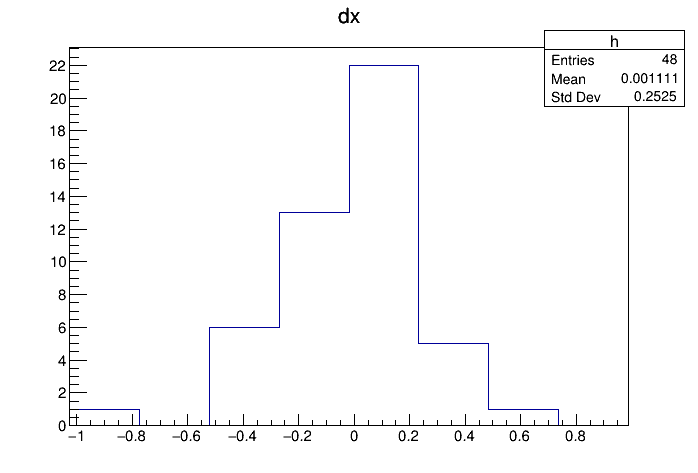
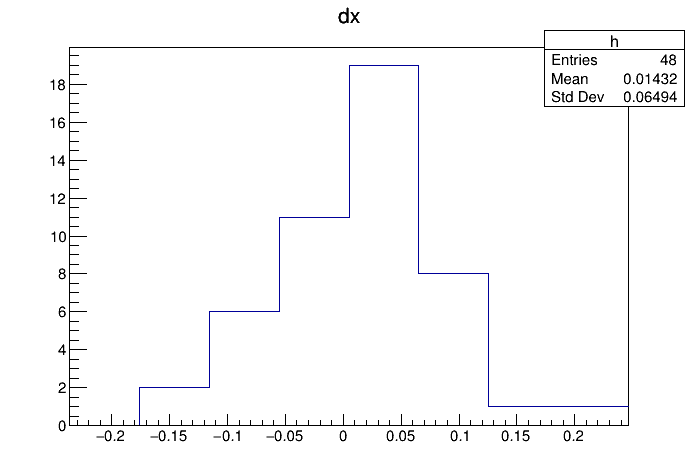
Sample Text

diff --git a/intt_transforms.cc b/intt_transforms.cc
@@ -1,4 +1,4 @@
-void get_intt_transforms()
+void intt_transforms()
 {
 	TFile* geo_file = TFile::Open("intt_geo.root", "READ");
 	if(!geo_file)return;
@@ -21,16 +21,8 @@ void get_intt_transforms()
 
 	tree->Branch("name", &name);
 
-	tree->Branch("mx", &mx);
-	tree->Branch("nx", &nx);
 	tree->Branch("dx", &dx);
-
-	tree->Branch("my", &my);
-	tree->Branch("ny", &ny);
 	tree->Branch("dy", &dy);
-
-	tree->Branch("mz", &mz);
-	tree->Branch("nz", &nz);
 	tree->Branch("dz", &dz);
 
 	tree->Branch("alpha", &alpha);
@@ -81,6 +73,20 @@ void get_intt_transforms()
 		{"crss_4", {&b4, &u4, &v4}}
 	};
 
+	TMatrix sPHENIX_to_OGP(4, 4);	//from sPHENIX local ladder coorinates
+					//	z-x plane (long axis z), origin at ladder center
+					//to OGP coordinates
+					//	x-y plane (long axis x), origin at hole 1
+
+	//sPHENIX x in OGP coordinates	//sPHENIX y in OGP coordinates	//sPHENIX z in OGP coordinates	//sPHENIX offset in OGP coordinates
+	sPHENIX_to_OGP[0][0] = 0.0;	sPHENIX_to_OGP[0][1] = 0.0;	sPHENIX_to_OGP[0][2] = 1.0;	sPHENIX_to_OGP[0][3] = 246.0;
+	sPHENIX_to_OGP[1][0] = 1.0;	sPHENIX_to_OGP[1][1] = 0.0;	sPHENIX_to_OGP[1][2] = 0.0;	sPHENIX_to_OGP[1][3] = 17.00;
+	sPHENIX_to_OGP[2][0] = 0.0;	sPHENIX_to_OGP[2][1] = 1.0;	sPHENIX_to_OGP[2][2] = 0.0;	sPHENIX_to_OGP[2][3] = 0.000;
+	sPHENIX_to_OGP[3][0] = 0.0;	sPHENIX_to_OGP[3][1] = 0.0;	sPHENIX_to_OGP[3][2] = 0.0;	sPHENIX_to_OGP[3][3] = 1.000;
+
+	TMatrix OGP_to_sPHENIX = sPHENIX_to_OGP;
+	OGP_to_sPHENIX.Invert();
+
 	TVector3 lddr_c;
 	TVector3 lddr_x;
 	TVector3 lddr_y;
@@ -96,6 +102,7 @@ void get_intt_transforms()
 	TMatrix n(4, 1);
 
 	TMatrix T(4, 4);
+	TMatrix U(4, 4);
 	TMatrix t(4, 1);
 
 	int lyr;
@@ -141,16 +148,22 @@ void get_intt_transforms()
 
 			if(b1 or b2 or b3 or b4)continue;
 
-			mx =	( ((u4.Y() - u2.Y()) / (u4.X() - u2.X()) * u2.X() - u2.Y()) - ((u3.Y() - u1.Y()) / (u3.X() - u1.X()) * u1.X() - u1.Y()) ) /
-				( (u4.Y() - u2.Y()) / (u4.X() - u2.X()) - (u3.Y() - u1.Y()) / (u3.X() - u1.X()) );
-			my =	( ((u4.X() - u2.X()) / (u4.Y() - u2.Y()) * u2.Y() - u2.X()) - ((u3.X() - u1.X()) / (u3.Y() - u1.Y()) * u1.Y() - u1.X()) ) /
-				( (u4.X() - u2.X()) / (u4.Y() - u2.Y()) - (u3.X() - u1.X()) / (u3.Y() - u1.Y()) );
+		//	mx =	( ((u4.Y() - u2.Y()) / (u4.X() - u2.X()) * u2.X() - u2.Y()) - ((u3.Y() - u1.Y()) / (u3.X() - u1.X()) * u1.X() - u1.Y()) ) /
+		//		( (u4.Y() - u2.Y()) / (u4.X() - u2.X()) - (u3.Y() - u1.Y()) / (u3.X() - u1.X()) );
+		//	my =	( ((u4.X() - u2.X()) / (u4.Y() - u2.Y()) * u2.Y() - u2.X()) - ((u3.X() - u1.X()) / (u3.Y() - u1.Y()) * u1.Y() - u1.X()) ) /
+		//		( (u4.X() - u2.X()) / (u4.Y() - u2.Y()) - (u3.X() - u1.X()) / (u3.Y() - u1.Y()) );
+
+			mx =	(u1.X() + u2.X() + u3.X() + u4.X()) * 0.25;
+			my =	(u1.Y() + u2.Y() + u3.Y() + u4.Y()) * 0.25;
 			mz =	(u1.Z() + u2.Z() + u3.Z() + u4.Z()) * 0.25;
 
-			nx =	( ((v4.Y() - v2.Y()) / (v4.X() - v2.X()) * v2.X() - v2.Y()) - ((v3.Y() - v1.Y()) / (v3.X() - v1.X()) * v1.X() - v1.Y()) ) /
-				( (v4.Y() - v2.Y()) / (v4.X() - v2.X()) - (v3.Y() - v1.Y()) / (v3.X() - v1.X()) );
-			ny =	( ((v4.X() - v2.X()) / (v4.Y() - v2.Y()) * v2.Y() - v2.X()) - ((v3.X() - v1.X()) / (v3.Y() - v1.Y()) * v1.Y() - v1.X()) ) /
-				( (v4.X() - v2.X()) / (v4.Y() - v2.Y()) - (v3.X() - v1.X()) / (v3.Y() - v1.Y()) );
+		//	nx =	( ((v4.Y() - v2.Y()) / (v4.X() - v2.X()) * v2.X() - v2.Y()) - ((v3.Y() - v1.Y()) / (v3.X() - v1.X()) * v1.X() - v1.Y()) ) /
+		//		( (v4.Y() - v2.Y()) / (v4.X() - v2.X()) - (v3.Y() - v1.Y()) / (v3.X() - v1.X()) );
+		//	ny =	( ((v4.X() - v2.X()) / (v4.Y() - v2.Y()) * v2.Y() - v2.X()) - ((v3.X() - v1.X()) / (v3.Y() - v1.Y()) * v1.Y() - v1.X()) ) /
+		//		( (v4.X() - v2.X()) / (v4.Y() - v2.Y()) - (v3.X() - v1.X()) / (v3.Y() - v1.Y()) );
+
+			nx =	(v1.X() + v2.X() + v3.X() + v4.X()) * 0.25;
+			ny =	(v1.Y() + v2.Y() + v3.Y() + v4.Y()) * 0.25;
 			nz =	(v1.Z() + v2.Z() + v3.Z() + v4.Z()) * 0.25;
 
 			lddr_c.SetX(mx - nx);
@@ -160,17 +173,11 @@ void get_intt_transforms()
 			lddr_y = ((u3 - u1).Unit() + (u4 - u2).Unit()).Unit();
 			lddr_z = lddr_x.Cross(lddr_y).Unit();
 
+			//matrix that rotates from ladder nominal to ladder measured (local OGP coordinate system)
 			lddr_transform[0][0] = lddr_x.X();	lddr_transform[0][1] = lddr_y.X();	lddr_transform[0][2] = lddr_z.X();	lddr_transform[0][3] = lddr_c.X();
 			lddr_transform[1][0] = lddr_x.Y();	lddr_transform[1][1] = lddr_y.Y();	lddr_transform[1][2] = lddr_z.Y();	lddr_transform[1][3] = lddr_c.Y();
 			lddr_transform[2][0] = lddr_x.Z();	lddr_transform[2][1] = lddr_y.Z();	lddr_transform[2][2] = lddr_z.Z();	lddr_transform[2][3] = lddr_c.Z();
 			lddr_transform[3][0] = 0.0;		lddr_transform[3][1] = 0.0;		lddr_transform[3][2] = 0.0;		lddr_transform[3][3] = 1.0;
-
-			std::cout << std::endl;
-			std::cout << lddr_transform[0][0] << "\t" << lddr_transform[0][1] << "\t" << lddr_transform[0][2] << "\t" << lddr_transform[0][3] << "\t" << std::endl;
-			std::cout << lddr_transform[1][0] << "\t" << lddr_transform[1][1] << "\t" << lddr_transform[1][2] << "\t" << lddr_transform[1][3] << "\t" << std::endl;
-			std::cout << lddr_transform[2][0] << "\t" << lddr_transform[2][1] << "\t" << lddr_transform[2][2] << "\t" << lddr_transform[2][3] << "\t" << std::endl;
-			std::cout << lddr_transform[3][0] << "\t" << lddr_transform[3][1] << "\t" << lddr_transform[3][2] << "\t" << lddr_transform[3][3] << "\t" << std::endl;
-			std::cout << std::endl;
 
 			for(i= 0; i < component_names.size(); ++i)
 			{
@@ -203,16 +210,20 @@ void get_intt_transforms()
 
 				if(b1 or b2 or b3 or b4)continue;
 
-				mx =	( ((u4.Y() - u2.Y()) / (u4.X() - u2.X()) * u2.X() - u2.Y()) - ((u3.Y() - u1.Y()) / (u3.X() - u1.X()) * u1.X() - u1.Y()) ) /
-					( (u4.Y() - u2.Y()) / (u4.X() - u2.X()) - (u3.Y() - u1.Y()) / (u3.X() - u1.X()) );
-				my =	( ((u4.X() - u2.X()) / (u4.Y() - u2.Y()) * u2.Y() - u2.X()) - ((u3.X() - u1.X()) / (u3.Y() - u1.Y()) * u1.Y() - u1.X()) ) /
-					( (u4.X() - u2.X()) / (u4.Y() - u2.Y()) - (u3.X() - u1.X()) / (u3.Y() - u1.Y()) );
+				//mx =	( ((u4.Y() - u2.Y()) / (u4.X() - u2.X()) * u2.X() - u2.Y()) - ((u3.Y() - u1.Y()) / (u3.X() - u1.X()) * u1.X() - u1.Y()) ) /
+				//	( (u4.Y() - u2.Y()) / (u4.X() - u2.X()) - (u3.Y() - u1.Y()) / (u3.X() - u1.X()) );
+				//my =	( ((u4.X() - u2.X()) / (u4.Y() - u2.Y()) * u2.Y() - u2.X()) - ((u3.X() - u1.X()) / (u3.Y() - u1.Y()) * u1.Y() - u1.X()) ) /
+				//	( (u4.X() - u2.X()) / (u4.Y() - u2.Y()) - (u3.X() - u1.X()) / (u3.Y() - u1.Y()) );
+				mx =	(u1.X() + u2.X() + u3.X() + u4.X()) * 0.25;
+				my =	(u1.Y() + u2.Y() + u3.Y() + u4.Y()) * 0.25;
 				mz =	(u1.Z() + u2.Z() + u3.Z() + u4.Z()) * 0.25;
 
-				nx =	( ((v4.Y() - v2.Y()) / (v4.X() - v2.X()) * v2.X() - v2.Y()) - ((v3.Y() - v1.Y()) / (v3.X() - v1.X()) * v1.X() - v1.Y()) ) /
-					( (v4.Y() - v2.Y()) / (v4.X() - v2.X()) - (v3.Y() - v1.Y()) / (v3.X() - v1.X()) );
-				ny =	( ((v4.X() - v2.X()) / (v4.Y() - v2.Y()) * v2.Y() - v2.X()) - ((v3.X() - v1.X()) / (v3.Y() - v1.Y()) * v1.Y() - v1.X()) ) /
-					( (v4.X() - v2.X()) / (v4.Y() - v2.Y()) - (v3.X() - v1.X()) / (v3.Y() - v1.Y()) );
+				//nx =	( ((v4.Y() - v2.Y()) / (v4.X() - v2.X()) * v2.X() - v2.Y()) - ((v3.Y() - v1.Y()) / (v3.X() - v1.X()) * v1.X() - v1.Y()) ) /
+				//	( (v4.Y() - v2.Y()) / (v4.X() - v2.X()) - (v3.Y() - v1.Y()) / (v3.X() - v1.X()) );
+				//ny =	( ((v4.X() - v2.X()) / (v4.Y() - v2.Y()) * v2.Y() - v2.X()) - ((v3.X() - v1.X()) / (v3.Y() - v1.Y()) * v1.Y() - v1.X()) ) /
+				//	( (v4.X() - v2.X()) / (v4.Y() - v2.Y()) - (v3.X() - v1.X()) / (v3.Y() - v1.Y()) );
+				nx =	(v1.X() + v2.X() + v3.X() + v4.X()) * 0.25;
+				ny =	(v1.Y() + v2.Y() + v3.Y() + v4.Y()) * 0.25;
 				nz =	(v1.Z() + v2.Z() + v3.Z() + v4.Z()) * 0.25;
 
 				m[0][0] = mx;
@@ -225,18 +236,19 @@ void get_intt_transforms()
 				n[2][0] = nz;
 				n[3][0] = 1.0;
 
-				T = lddr_transform; //local to global
+				T = lddr_transform; //ladder nominal to measured
 
-				//n is nominal in ladder's frame
-				//transform n to global
-				t.Mult(T, n);
-				n = t;
+				//n is if ladder sits nominally on OGP
+				//transform m to where it would be if ladder sat nominally on OGP
+				T.Invert();
+				t.Mult(T, m);
+				m = t;
 
-				//compare with m in global
+				//can now compare m and n in the ladder's frame
 				t = m - n;
 
 				//now do the sensor's tranform matrix
-				//local to global, why we transformed n and not m
+				//sensor coordinates to OGP coordinates
 				snsr_c.SetX(t[0][0]);
 				snsr_c.SetY(t[1][0]);
 				snsr_c.SetZ(t[2][0]);
@@ -252,7 +264,17 @@ void get_intt_transforms()
 
 				//(local to global)^-1 * local to global -> ladder's fame to global to snsr frame
 				T.Mult(snsr_transform.Invert(), lddr_transform);
-				//T is ladder to sensor
+				T.Invert();
+				//Invert does in-place inversion; hence no lddr_transform.Invert(); we want to preserve that
+
+				//T is now the transform from sensor to ladder, but each is using the OGP convention for its local coordinates
+				//want the transform where each is using sPHENIX convention for its local coordinates
+
+				U.Mult(T, sPHENIX_to_OGP);
+				T.Mult(OGP_to_sPHENIX, U);
+
+				//T is now the transform from ladder local sPHENIX coordinates to sensor local sPHENIX coordinates
+				//T is also the transform that moves the sensor to its measured transform if it starts aligned with the ladder
 
 				//assign values and fill
 				name = temp + "_" + component_names[i];

diff --git a/draw_transforms.cc b/draw_transforms.cc
@@ -1,4 +1,4 @@
-void draw_transform_params()
+void draw_transforms()
 {
 
 	TFile* file = TFile::Open("intt_transforms.root", "READ");
@@ -38,7 +38,7 @@ void draw_transform_params()
 		{
 			tree->GetEntry(n);
 
-			//bad point--OGP machine failed
+			//bad point--OGP machine failed to find one of the crosses
 			if(name.find("B1L114") != std::string::npos)continue;
 
 			param_m += *par->second;

diff --git a/draw_intt.cc b/draw_intt.cc
@@ -17,7 +17,7 @@ void draw_intt()
 	tree = (TTree*)file->Get("intt_geo");
 	if(!tree)
 	{
-		std::cout << "Couldn't get tree 'intt_gel'" << std::endl;
+		std::cout << "Couldn't get tree 'intt_geo'" << std::endl;
 		return;
 	}
 

diff --git a/intt_survey_data.cc b/intt_survey_data.cc
@@ -1,6 +1,6 @@
-int read_survey_file(std::string, TTree*);
+int intt_survey_file(std::string, TTree*);
 
-int read_survey_data()
+int intt_survey_data()
 {
 	char buff[128];
 	int ladders[4] = {12, 12, 16, 16};

diff --git a/intt_geo.cc b/intt_geo.cc
@@ -1,4 +1,4 @@
-void compare_survey_data()
+void intt_geo()
 {
 	TFile* ogp_file = TFile::Open("intt_survey_data.root", "READ");
 	if(!ogp_file)return;
